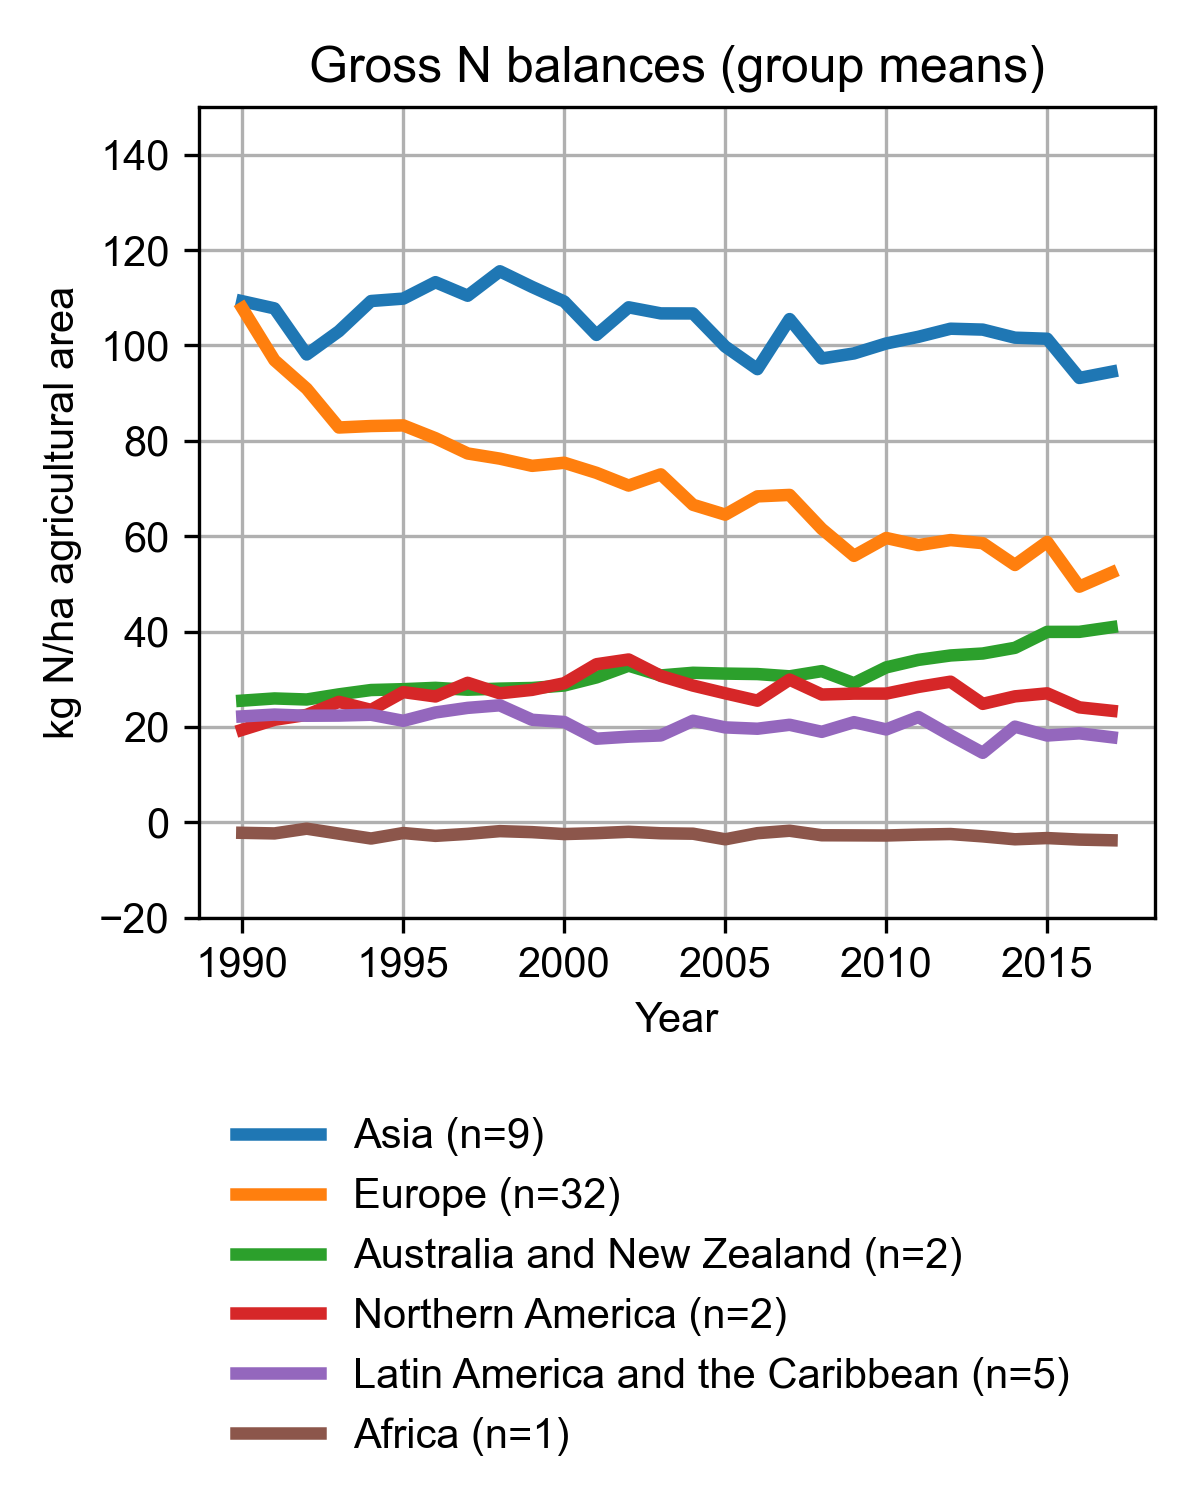
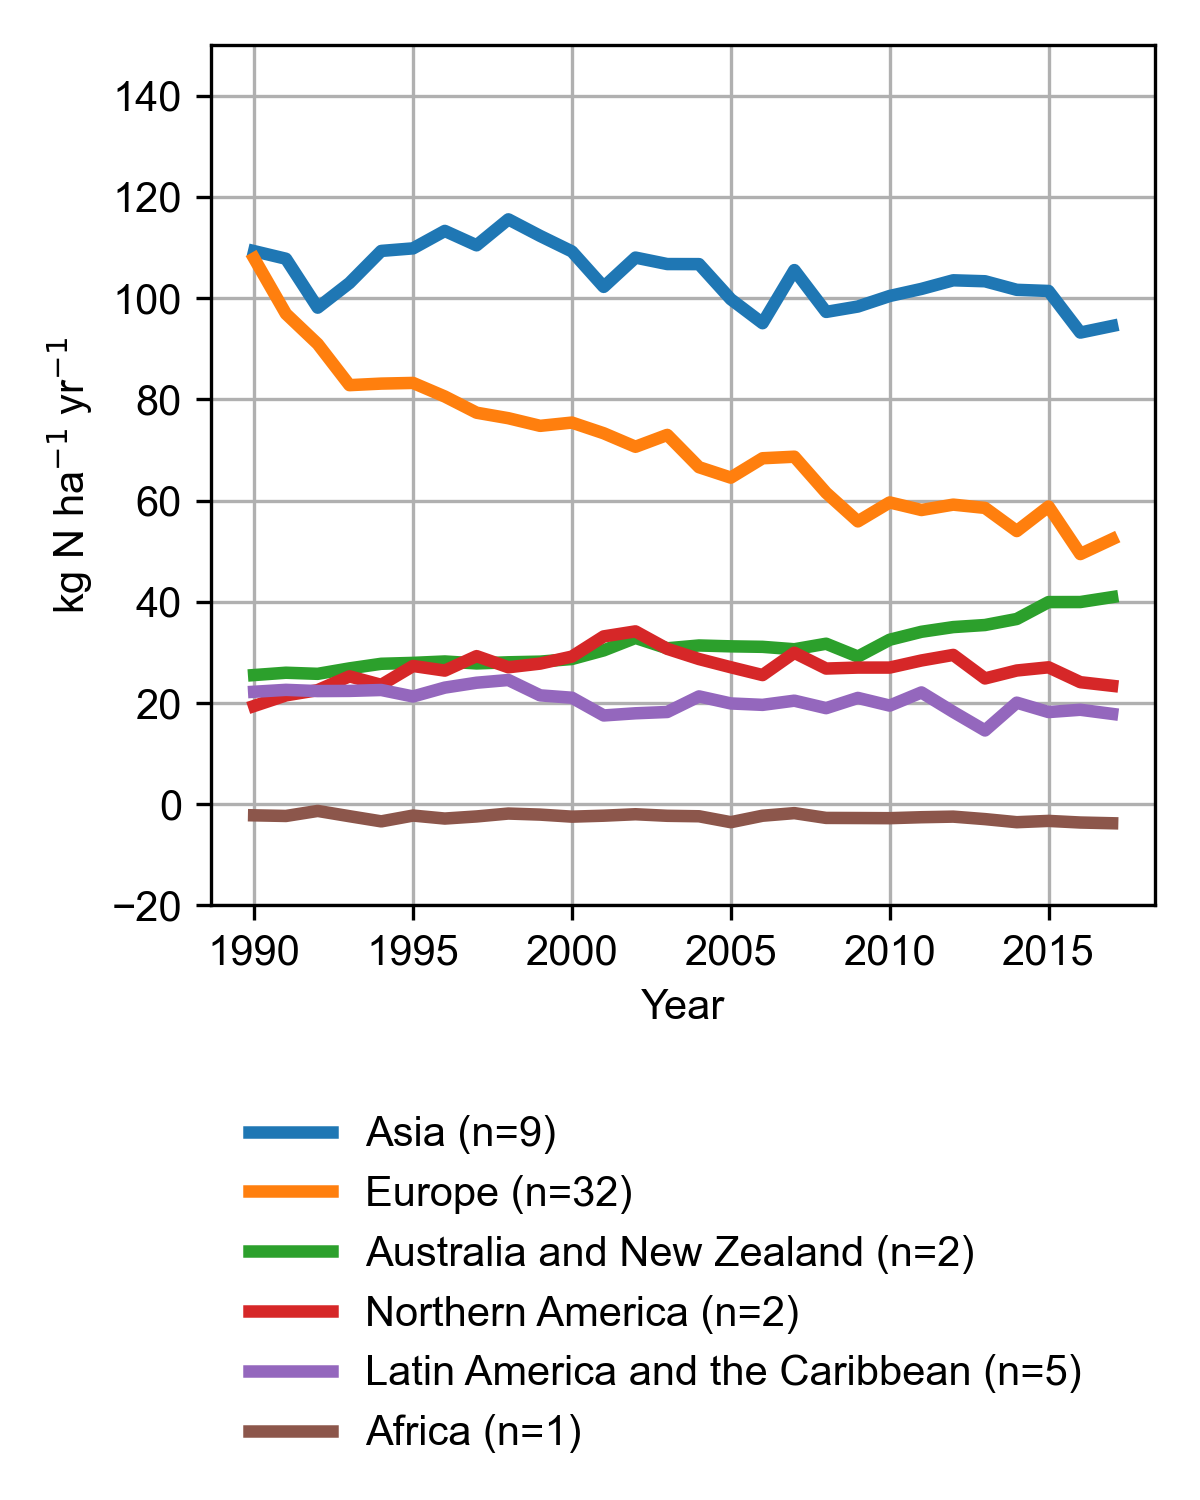
Adjust axis label and remove caption

diff --git a/make_figure.py b/make_figure.py
@@ -67,8 +67,7 @@ for group, color in zip(group_order, colors):
         label=f"{group} (n={len(d.columns)})",
     )
 ax.grid(True)
-ax.set_title("Gross N balances (group means)")
-ax.set_ylabel("kg N/ha agricultural area")
+ax.set_ylabel("kg N ha$^{-1}$ yr$^{-1}$")
 ax.set_xlabel("Year")
 ax.legend(bbox_to_anchor=(0, -0.2), loc="upper left", frameon=False)
 ax.set_ylim(-20, 150)
